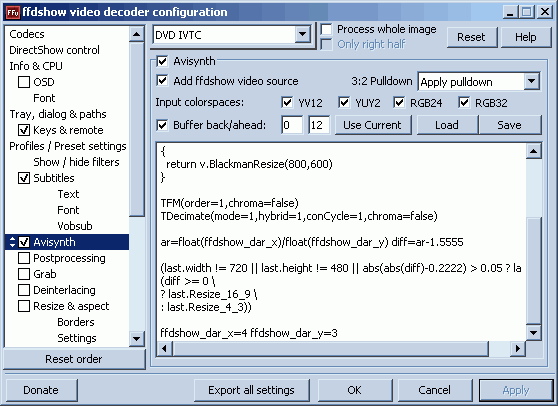
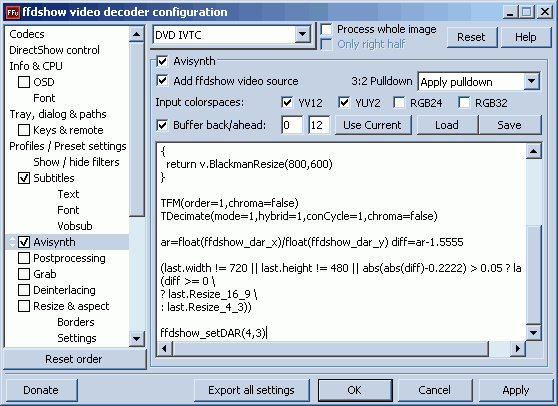
Add global AviSynth variables for SAR ("size aspect ratio" AFAIK) which is used internally Add AviSynth functions ffdshow_setDAR(x,y) and ffdshow_setSAR(x,y) to set a new DAR or SAR Update avisynth.htm accordingly
git-svn-id: https://ffdshow-tryout.svn.sourceforge.net/svnroot/ffdshow-tryout/trunk@1297 3b938f2f-1a1a-0410-8054-a526ea5ff92c

diff --git a/htmlhelp/html/en/avisynth.htm b/htmlhelp/html/en/avisynth.htm
@@ -2,7 +2,7 @@
   "http://www.w3.org/TR/xhtml1/DTD/xhtml1-transitional.dtd">
 <html xmlns="http://www.w3.org/1999/xhtml">
 
-<!-- In sync with revision 1194. -->
+<!-- In sync with revision 1297. -->
 
 <head>
   <title>ffdshow tryouts | AviSynth filter</title>
@@ -29,7 +29,7 @@
   <img src="images/avisynth.png" width="558" height="406" title="AviSynth filter dialog" alt="AviSynth filter dialog" />
 
   <p>
-    This document is based on rev 1194 or later.
+    This document is based on rev. 1297 or later.
   </p>
 
   <h2>
@@ -151,9 +151,16 @@
   <h4>Aspect ratio variables</h4>
 
   <p>
-    The global variables ffdshow_dar_x and ffdshow_dar_y are set to the input video's display aspect ratio (i.e. 4 and 3 for 4:3 material) and can be assigned to to set a new aspect ratio for the output video. Note that some players like Media Player Classic will disregard the video's aspect ratio and ask the DVD navigator for the aspect ratio when playing DVDs, so setting an aspect ratio might yield strange results.
+    The global variables ffdshow_dar_x and ffdshow_dar_y are set to the input video's display aspect ratio (i.e. 4 and 3 for 4:3 material). You can set a new display aspect ratio for the output video by using the ffdshow_setDAR(x,y) function. Note that some players like Media Player Classic will disregard the video's aspect ratio and ask the DVD navigator for the aspect ratio when playing DVDs, so setting an aspect ratio might yield strange results.
   </p>
 
+  <p>
+    (Similar variables and a similar function exist for the size aspect ratio that is used internally by ffdshow, but it's probably not very useful. A video of size 720x480 with square pixels would have a SAR of 3:2, for example.)
+  </p>
+
+  <p>
+    Note: any "virtual" borders that were added to your video by the Resize & Aspect filter will be removed when you resize the video in your script or when you set a new aspect ratio.
+  </p>
   <h4>Examples</h4>
 
   <p>
@@ -183,7 +190,7 @@ TDecimate(mode=1,hybrid=1,conCycle=1,chroma=false)</pre>
     The above script extended to resize 4:3 or 16:9 images into an 800x600 area, with 16:9 images being cropped a bit left and right:
   </p>
 
-  <pre style="border: 1px solid Gray; margin-left: 2ex; padding-left: 0.5ex;">  
+  <pre style="border: 1px solid Gray; margin-left: 2ex; padding-left: 0.5ex;">
 function Resize_16_9(v)
 {
   return v.LanczosResize(800,480,22,0,676,480).AddBorders(0,60,0,60)
@@ -205,7 +212,7 @@ abs(abs(diff)-0.2222) > 0.05 ? last : \
 ? last.Resize_16_9 \
 : last.Resize_4_3)
 
-ffdshow_dar_x=4 ffdshow_dar_Y=3</pre>
+ffdshow_setDAR(4,3)</pre>
 
   <h2>
     <a name="Compatibility">Compatibility</a>
@@ -223,7 +230,7 @@ ffdshow_dar_x=4 ffdshow_dar_Y=3</pre>
     You can also disable buffering and set "3:2 pulldown" to "Ignore pulldown" to get the old behaviour of earlier ffdshow versions back, which might be a bit more performant since it avoids copying frames to an intermediate buffer - but that will of course not work right with scripts that need more than just the current frame, like the TIVTC example above.
   </p>
 
-  <div class="footer">    
+  <div class="footer">
     <table>
       <tr>
         <td>
@@ -237,7 +244,7 @@ ffdshow_dar_x=4 ffdshow_dar_Y=3</pre>
           </a>
         </td>
       </tr>
-    </table>    
+    </table>
   </div>
 </body>
 </html>

diff --git a/src/imgFilters/avisynth/TimgFilterAvisynth.cpp b/src/imgFilters/avisynth/TimgFilterAvisynth.cpp
@@ -190,6 +190,30 @@ AVS_VideoFrame* AVSC_CC TimgFilterAvisynth::Tffdshow_source::get_frame(AVS_Filte
  return frame;
 }
 
+//============================= TimgFilterAvisynth::Tffdshow_setAR =============================
+
+AVS_Value AVSC_CC TimgFilterAvisynth::Tffdshow_setAR::Create_SetSAR(AVS_ScriptEnvironment *env, AVS_Value args, void * user_data)
+{
+ return Create(env,args,user_data,false);
+}
+
+AVS_Value AVSC_CC TimgFilterAvisynth::Tffdshow_setAR::Create_SetDAR(AVS_ScriptEnvironment *env, AVS_Value args, void * user_data)
+{
+ return Create(env,args,user_data,true);
+}
+
+AVS_Value AVSC_CC TimgFilterAvisynth::Tffdshow_setAR::Create(AVS_ScriptEnvironment *env, AVS_Value args, void * user_data, bool setDAR)
+{
+ Tinput* input=(Tinput*)user_data;
+ int x=avs_as_int(avs_array_elt(args,0));
+ int y=avs_as_int(avs_array_elt(args,1));
+
+ input->outputSar=( setDAR ? Rational(0,0) : Rational(x,y));
+ input->outputDar=(!setDAR ? Rational(0,0) : Rational(x,y));
+
+ return avs_void;
+}
+
 //================================ TimgFilterAvisynth::Tavisynth ===============================
 bool TimgFilterAvisynth::Tavisynth::createClip(const TavisynthSettings *cfg,Tinput *input,TffPictBase& pict)
 {
@@ -200,13 +224,32 @@ bool TimgFilterAvisynth::Tavisynth::createClip(const TavisynthSettings *cfg,Tinp
    if (!input->env)
     return false;
 
-   input->env->AddFunction("ffdshow_source","",Tffdshow_source::Create,(void*)input);
+   input->env->AddFunction(
+    "ffdshow_source",
+    "",
+    TimgFilterAvisynth::Tffdshow_source::Create,
+    (void*)input);
+
+   input->env->AddFunction(
+    "ffdshow_setSAR",
+    "[x]i[y]i",
+    TimgFilterAvisynth::Tffdshow_setAR::Create_SetSAR,
+    (void*)input);
+
+   input->env->AddFunction(
+    "ffdshow_setDAR",
+    "[x]i[y]i",
+    TimgFilterAvisynth::Tffdshow_setAR::Create_SetDAR,
+    (void*)input);
   }
 
  IScriptEnvironment* env=input->env;
 
+ Rational sar=pict.rectClip.sar;
  Rational dar=pict.rectClip.dar();
 
+ env->SetGlobalVar("ffdshow_sar_x",AVSValue(sar.num));
+ env->SetGlobalVar("ffdshow_sar_y",AVSValue(sar.den));
  env->SetGlobalVar("ffdshow_dar_x",AVSValue(dar.num));
  env->SetGlobalVar("ffdshow_dar_y",AVSValue(dar.den));
 
@@ -281,18 +324,31 @@ bool TimgFilterAvisynth::Tavisynth::createClip(const TavisynthSettings *cfg,Tinp
 void TimgFilterAvisynth::Tavisynth::setOutFmt(const TavisynthSettings *cfg,Tinput *input,TffPictBase &pict)
 {
  if ((pict.rectClip == inputRect) && !(pict.rectClip.dar() != inputDar)) // No operator== in Rational... o_O;
-  pict.rectFull=pict.rectClip=outputRect;
+  {
+   if (outputRect != inputRect)
+    pict.rectFull=pict.rectClip=outputRect;
+  }
  else if (createClip(cfg,input,pict))
   {
    IScriptEnvironment* env=input->env;
 
    inputRect=pict.rectClip;
+   inputSar=pict.rectClip.sar;
    inputDar=pict.rectClip.dar();
 
    const VideoInfo &vi=(*input->clip)->GetVideoInfo();
 
-   outputDar=Rational(env->GetGlobalVar("ffdshow_dar_x").AsInt(),env->GetGlobalVar("ffdshow_dar_y").AsInt());
-   pict.rectFull=pict.rectClip=outputRect=Trect(0,0,vi.width,vi.height,Rational((vi.height*outputDar.num)/double(vi.width*outputDar.den),32768));
+   if (input->outputDar)
+    pict.rectFull=pict.rectClip=outputRect=
+     Trect(
+      0,0,vi.width,vi.height,
+      Rational((vi.height*input->outputDar.num)/double(vi.width*input->outputDar.den),32768));
+   else if (input->outputSar)
+    pict.rectFull=pict.rectClip=outputRect=Trect(0,0,vi.width,vi.height,input->outputSar);
+   else if ((unsigned int)vi.width != inputRect.dx || (unsigned int)vi.height != inputRect.dy)
+    pict.rectFull=pict.rectClip=outputRect=Trect(0,0,vi.width,vi.height,inputSar);
+   else
+    outputRect=inputRect;
 
    delete input->clip; input->clip=0;
   }
@@ -346,7 +402,6 @@ void TimgFilterAvisynth::Tavisynth::init(const TavisynthSettings &oldcfg, Tinput
    else if (vi.IsYUY2())  *outcsp=FF_CSP_YUY2;
    else if (vi.IsYV12())  *outcsp=FF_CSP_420P;
    else                   *outcsp=FF_CSP_NULL;
-   outrect=Trect(0,0,vi.width,vi.height);
 
    applyPulldown=oldcfg.applyPulldown;
 
@@ -379,11 +434,21 @@ void TimgFilterAvisynth::Tavisynth::init(const TavisynthSettings &oldcfg, Tinput
    frameScaleNum/=frameScaleGCD;
    frameScaleDen/=frameScaleGCD;
 
-   inputDar=pict.rectClip.dar();
    inputRect=pict.rectClip;
+   inputSar=pict.rectClip.sar;
+   inputDar=pict.rectClip.dar();
 
-   outputDar=Rational(input->env->GetGlobalVar("ffdshow_dar_x").AsInt(),input->env->GetGlobalVar("ffdshow_dar_y").AsInt());
-   pict.rectFull=pict.rectClip=outputRect=Trect(0,0,vi.width,vi.height,Rational((vi.height*outputDar.num)/double(vi.width*outputDar.den),32768));
+   if (input->outputDar)
+    pict.rectFull=pict.rectClip=outputRect=
+     Trect(
+      0,0,vi.width,vi.height,
+      Rational((vi.height*input->outputDar.num)/double(vi.width*input->outputDar.den),32768));
+   else if (input->outputSar)
+    pict.rectFull=pict.rectClip=outputRect=Trect(0,0,vi.width,vi.height,input->outputSar);
+   else if ((unsigned int)vi.width != inputRect.dx || (unsigned int)vi.height != inputRect.dy)
+    pict.rectFull=pict.rectClip=outputRect=Trect(0,0,vi.width,vi.height,inputSar);
+   else
+    outputRect=inputRect;
 
    restart=true;
    deleteBuffers=true;
@@ -931,16 +996,16 @@ void TimgFilterAvisynth::Tavisynth::process(TimgFilterAvisynth *self,TfilterQueu
      if (debugPrint)
       DPRINTFA("TimgFilterAvisynth: %s", infoBuf);
 
-     if (pict.diff[0] || outrect!=self->pictRect)
+     if (pict.diff[0] || outputRect!=self->pictRect)
       {
        // Copy resulting frame into current TffPict
 
        unsigned char *data[4];
 
-       if (outrect==self->pictRect)
+       if (outputRect==self->pictRect)
         self->getNext(self->outcsp,pict,cfg->full,data);
        else
-        self->getNext(self->outcsp,pict,cfg->full,data,&outrect);
+        self->getNext(self->outcsp,pict,cfg->full,data,&outputRect);
 
        if (isYV12)
         {
@@ -1019,7 +1084,10 @@ void TimgFilterAvisynth::Tavisynth::process(TimgFilterAvisynth *self,TfilterQueu
        if (debugPrint)
         DPRINTF(_l("TimgFilterAvisynth: Delivering frame %i; %10.6f - %10.6f = %10.6f"),curOutFrameNo,pict.rtStart/10000.0,pict.rtStop/10000.0,(pict.rtStop-pict.rtStart)/10000.0);
 
-       pict.setDar(outputDar);
+       if (input->outputDar)
+        pict.setDar(input->outputDar);
+       else if (input->outputSar)
+        pict.setSar(input->outputSar);
 
        if (csp_isRGB_RGB(pict.csp))
         pict.csp^=FF_CSP_FLAGS_VFLIP;

diff --git a/src/imgFilters/avisynth/TimgFilterAvisynth.h b/src/imgFilters/avisynth/TimgFilterAvisynth.h
@@ -47,6 +47,9 @@ public:
    volatile int accessedFrames[100]; // relative to curFrame
    int backLimit;
 
+   Rational outputDar;
+   Rational outputSar;
+
    Tinput() : env(0),clip(0), buffers(0) {}
 
    ~Tinput()
@@ -62,33 +65,54 @@ private:
   private:
    VideoInfo &vi;
    Tinput *input;
+
    Tffdshow_source(Tinput *Iinput,VideoInfo &Ivi);
+
    static AVS_VideoFrame* AVSC_CC get_frame(AVS_FilterInfo *, int n);
    static int AVSC_CC get_parity(AVS_FilterInfo *, int n) {return 0;}
    static int AVSC_CC set_cache_hints(AVS_FilterInfo *, int cachehints, int frame_range) {return 0;}
    static void AVSC_CC free_filter(AVS_FilterInfo *);
 
   public:
-   static AVS_Value AVSC_CC Create(AVS_ScriptEnvironment *, AVS_Value args, void * user_data);
+   static AVS_Value AVSC_CC Create(AVS_ScriptEnvironment *env, AVS_Value args, void * user_data);
+  };
+
+ class Tffdshow_setAR : Tavisynth_c
+  {
+  private:
+   Tinput *input;
+   bool setDAR;
+
+   static AVS_Value AVSC_CC Create(AVS_ScriptEnvironment *env, AVS_Value args, void * user_data, bool setDAR);
+
+  public:
+   static AVS_Value AVSC_CC Create_SetSAR(AVS_ScriptEnvironment *env, AVS_Value args, void * user_data);
+   static AVS_Value AVSC_CC Create_SetDAR(AVS_ScriptEnvironment *env, AVS_Value args, void * user_data);
   };
 
  struct Tavisynth : public Tavisynth_c
   {
   public:
-   Tavisynth(): restart(true),passFirstThrough(true),bufferData(NULL),buffers(NULL),frameScaleDen(1),frameScaleNum(1) {}
+   Tavisynth(): 
+    restart(true),
+    passFirstThrough(true),
+    bufferData(NULL),
+    buffers(NULL),
+    frameScaleDen(1),
+    frameScaleNum(1)
+    {}
+
    ~Tavisynth() {done();}
+
    void skipAhead(bool passFirstThrough, bool clearLastOutStopTime);
    void done(void);
    bool createClip(const TavisynthSettings *cfg,Tinput *input,TffPictBase& pict);
-   typedef Tavisynth_c::PClip PClip;
    void setOutFmt(const TavisynthSettings *cfg,Tinput *input,TffPictBase &pict);
    void init(const TavisynthSettings &oldcfg,Tinput *input,int *outcsp,TffPictBase &pict);
    void process(TimgFilterAvisynth *self,TfilterQueue::iterator& it,TffPict &pict,const TavisynthSettings *cfg);
    char infoBuf[1000];
 
   private:
-   Trect outrect;
-
    int minAccessedFrame;
    int maxAccessedFrame;
 
@@ -103,9 +127,9 @@ private:
 
    Trect inputRect;
    Rational inputDar;
+   Rational inputSar;
 
    Trect outputRect;
-   Rational outputDar;
 
    bool enableBuffering;
    int bufferAhead;
@@ -152,6 +176,7 @@ protected:
 public:
  TimgFilterAvisynth(IffdshowBase *Ideci,Tfilters *Iparent);
  virtual ~TimgFilterAvisynth();
+
  virtual void done(void);
  virtual bool getOutputFmt(TffPictBase &pict,const TfilterSettingsVideo *cfg0);
  const char* getInfoBuffer(void);
